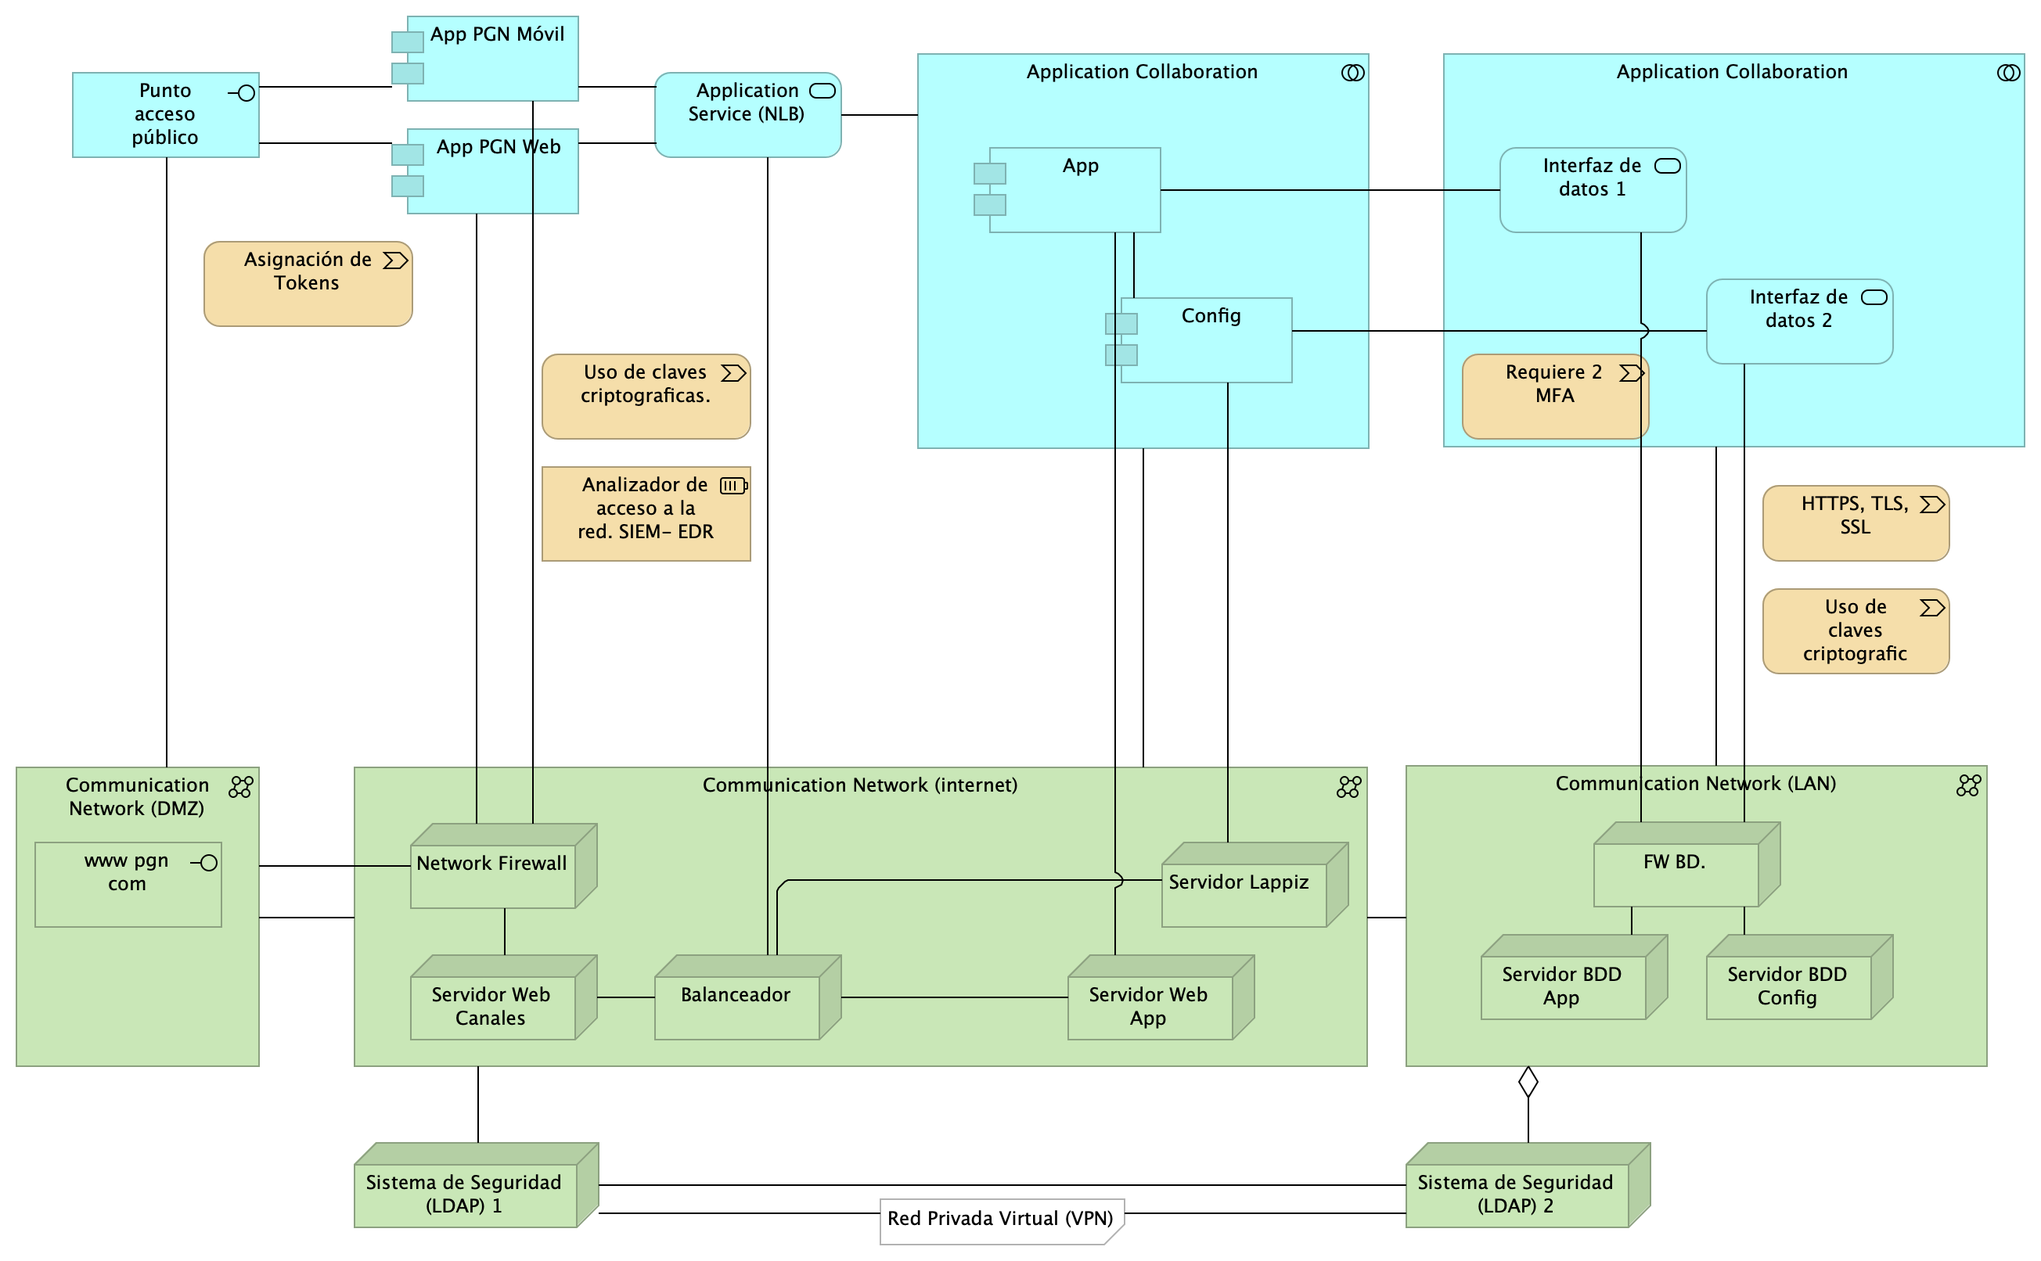
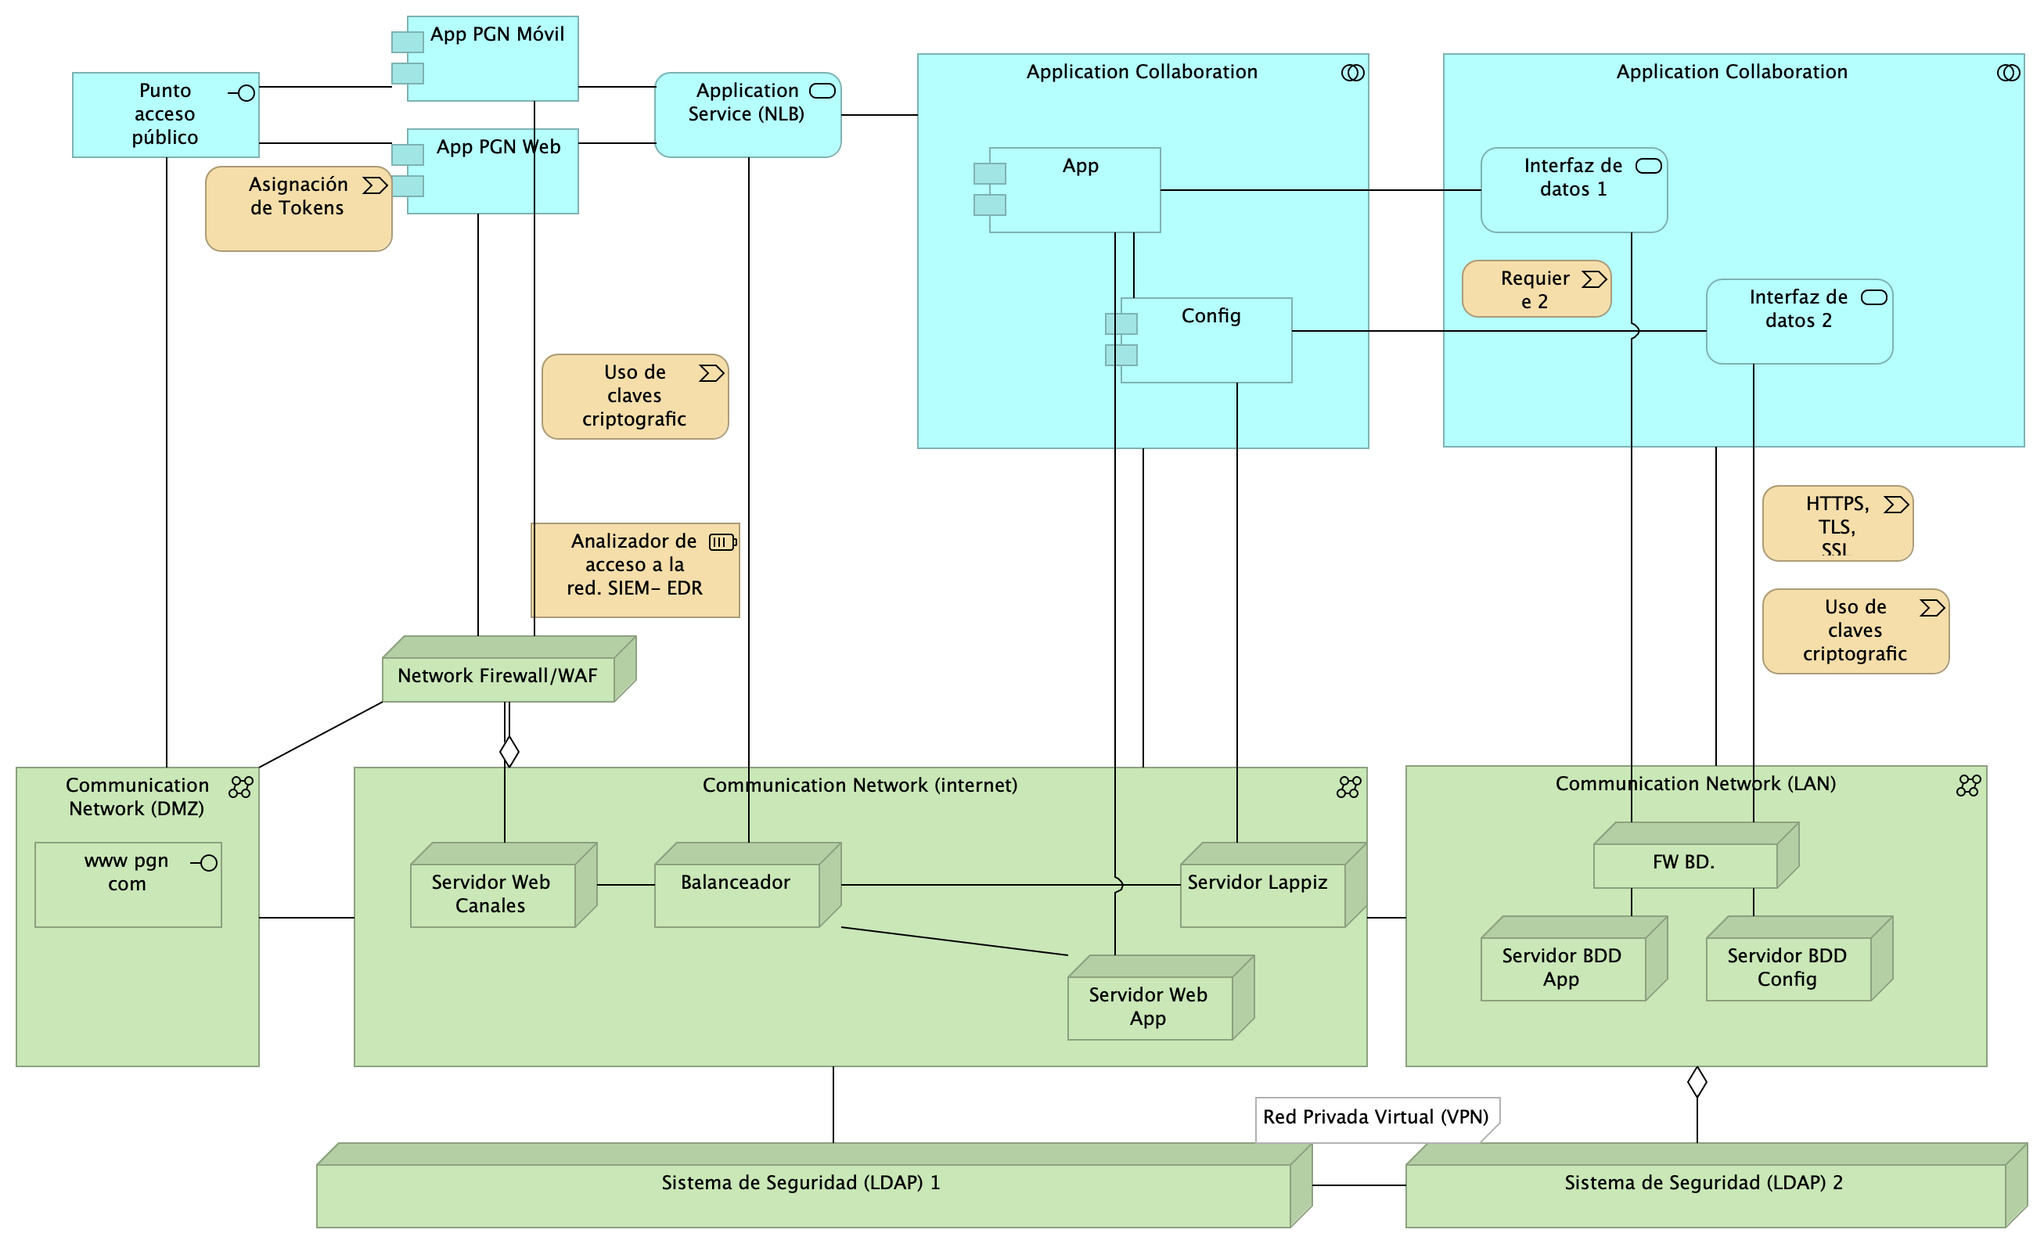
arqdoc2

diff --git a/content/03n.infra.md b/content/03n.infra.md
@@ -1,0 +1,149 @@
+# Documento de Arquitectura Infraestructura SUI PGN
+* [Descripción de Infraestructura Migración SUI PGN](#descripción-de-infraestructura-migración-sui-pgn)
+	* [Lineabase.1a.SIU componentes. infraestrcutura](#lineabase.1a.siu-componentes.-infraestrcutura)
+	* [Lineabase.0.SIU applicación. física](#lineabase.0.siu-applicación.-física)
+	* [Seguridad. Lineabase.0.SIU applicación](#seguridad.-lineabase.0.siu-applicación)
+
+<div style="page-break-before: always;"></div>
+\newpage
+
+# Descripción de Infraestructura Migración SUI PGN
+## Lineabase.1a.SIU componentes. infraestrcutura
+![Diagram: Lineabase.1a.SIU componentes. infraestrcutura](images/Lineabase.1a.SIUcomponentes.infraestrcutura.png){#fig:Lineabase.1a.SIUcomponentes.infraestrcutura width=}
+
+Dependencias de infraestructura entre los servicios que integran el modelo de aplicación de SUI, Migración. 
+
+* Servidor de Canales (App PGN web y móvil)
+* Servidor Web App (App SUI)
+* Servidor Lappiz (Config SUI)
+* Servidor BDD App (Transaccional)
+* Servidor BDD Config (Configuración)
+
+
+
+### Catálogo de Elementos
+| Name| Type| Description| Properties
+|:--------|:--------|:--------|:--------|
+|**Persistencia**|application-collaboration|||
+|**App**|application-component||*plataforma:* node Js<br>|
+|**App PGN Móvil**|application-component|||
+|**App PGN Web**|application-component||*plataforma:* angular 11<br>|
+|**Config**|application-component||*plataforma:* cs<br>|
+|**Controlador admin**|application-component||*plataforma:* cs<br>|
+|**Controlador frontal mvl**|application-component||*plataforma:* js<br>|
+|**Controlador frontal web**|application-component||*plataforma:* js<br>|
+|**Controlador funcional**|application-component||*plataforma:* js<br>|
+|**Modelo (neg)**|application-component||*plataforma:* cs<br>|
+|**Puerto datos 1**|application-component||*plataforma:* js<br>|
+|**Puerto datos 2**|application-component||*plataforma:* cs<br>|
+|**Seguridad**|application-component||*plataforma:* sql<br>|
+|**Transacciones**|application-component||*plataforma:* sql<br>|
+|**Utilitario**|application-component||*plataforma:* no-sql<br>|
+|**Vista móvil**|application-component||*plataforma:* js<br>|
+|**Vista web**|application-component||*plataforma:* html<br>|
+|**Interfaz de aplicación (runtime)**|application-interface||*plataforma:* angular 11<br>|
+|**API externas**|application-service|||
+|**Application Service (NLB)**|application-service||*plataforma:* angular 11<br>|
+|**Archivos Compartidos**|application-service|||
+|**CDN Contenidos**|application-service|||
+|**Doku (gest. doc.)**|application-service|||
+|**Identidades**|application-service|||
+|**Interfaz de datos 1**|application-service|||
+|**Interfaz de datos 2**|application-service|||
+|**Interfaz de datos 3**|application-service|||
+|**ccccc Proveedores contenidos**|application-service|||
+|**Mensaje: JSON**|data-object|||
+|**Infraestructura SUI**|grouping|Soporte de infraestructura a los componentes del SUI Migración. Servidores y ambientes de cómputo para la ejecución del software base de los componentes misionales del SUI de PGN.<br>||
+|**PGN SIU**|grouping|El objetivo principal de la arquitectura del SUI de la migración es la centralización de los conceptos misionales: concentrar los conceptos misionales en componentes aislados; dejar por fuera de estos componentes misionales todo lo distintos a la misionalidad de la PGN.<br>Los objetivos secundarios de esta arquitectura SUI de la migración son flexibilidad y extensibilidad. Dichos objetivos son independientes. Es decir, estos pueden ser maximizados sin conclifcto entre ellos.<br>||
+|**Servidor BDD App**|node|||
+|**Servidor BDD Config**|node|||
+|**Servidor Lappiz **|node|||
+|**Servidor Web App**|node|||
+|**Servidor Web Canales**|node|Nombre físico<br>IP LAN<br>IP Pública<br>||
+
+## Lineabase.0.SIU applicación. física
+![Diagram: Lineabase.0.SIU applicación. física](images/Lineabase.0.SIUapplicación.física.png){#fig:Lineabase.0.SIUapplicación.física width=}
+
+## Representación Arquitectónica
+Con una arquitectura orientada a servicios SUI recopila:
+
+1. Runtime: Es el servicio que interactúa con el usuario final (GUI) elaborado en Angular 11
+1. API Tx: Servicio api rest base node encargado de realizar las transacciones básicas CRUD
+1. API Config / Seguridad. Servicio Web API .Net Framework encargado de gestionar características con la autenticación y configuración
+
+
+
+
+### Catálogo de Elementos
+| Name| Type| Description| Properties
+|:--------|:--------|:--------|:--------|
+|**Application Collaboration**|application-collaboration|||
+|**Application Collaboration**|application-collaboration|||
+|**App**|application-component||*plataforma:* node Js<br>|
+|**App PGN Móvil**|application-component|||
+|**App PGN Web**|application-component||*plataforma:* angular 11<br>|
+|**Config**|application-component||*plataforma:* cs<br>|
+|**Punto acceso público**|application-interface|URL tipo C<br>HTTP||
+|**Application Service (NLB)**|application-service||*plataforma:* angular 11<br>|
+|**Interfaz de datos 1**|application-service|||
+|**Interfaz de datos 2**|application-service|||
+|**Communication Network (DMZ)**|communication-network|||
+|**Communication Network (LAN)**|communication-network|||
+|**Communication Network (internet)**|communication-network|||
+|**Balanceador**|node|||
+|**Servidor BDD App**|node|||
+|**Servidor BDD Config**|node|||
+|**Servidor Lappiz **|node|||
+|**Servidor Web App**|node|||
+|**Servidor Web Canales**|node|Nombre físico<br>IP LAN<br>IP Pública<br>||
+|**www pgn com**|technology-interface|||
+
+## Seguridad. Lineabase.0.SIU applicación
+![Diagram: Seguridad. Lineabase.0.SIU applicación](images/Seguridad.Lineabase.0.SIUapplicación.png){#fig:Seguridad.Lineabase.0.SIUapplicación width=}
+
+# Representación Arquitectónica
+Con una arquitectura orientada a servicios SUI recopila:
+
+1. Runtime: Es el servicio que interactúa con el usuario final (GUI) elaborado en Angular 11
+1. API Tx: Servicio api rest base node encargado de realizar las transacciones básicas CRUD
+1. API Config / Seguridad. Servicio Web API .Net Framework encargado de gestionar características con la autenticación y configuración
+
+
+
+
+### Catálogo de Elementos
+| Name| Type| Description| Properties
+|:--------|:--------|:--------|:--------|
+|**Application Collaboration**|application-collaboration|||
+|**Application Collaboration**|application-collaboration|||
+|**App**|application-component||*plataforma:* node Js<br>|
+|**App PGN Móvil**|application-component|||
+|**App PGN Web**|application-component||*plataforma:* angular 11<br>|
+|**Config**|application-component||*plataforma:* cs<br>|
+|**Punto acceso público**|application-interface|URL tipo C<br>HTTP||
+|**Application Service (NLB)**|application-service||*plataforma:* angular 11<br>|
+|**Interfaz de datos 1**|application-service|||
+|**Interfaz de datos 2**|application-service|||
+|**Communication Network (DMZ)**|communication-network|||
+|**Communication Network (LAN)**|communication-network|||
+|**Communication Network (internet)**|communication-network|||
+|**Balanceador**|node|||
+|**FW BD.**|node|||
+|**Network Firewall/WAF**|node|||
+|**Servidor BDD App**|node|||
+|**Servidor BDD Config**|node|||
+|**Servidor Lappiz **|node|||
+|**Servidor Web App**|node|||
+|**Servidor Web Canales**|node|Nombre físico<br>IP LAN<br>IP Pública<br>||
+|**Sistema de Seguridad (LDAP) 1**|node|Sistema de Seguridad (LDAP) 1. Control de acceso internet<br>||
+|**Sistema de Seguridad (LDAP) 2**|node|Sistema de Seguridad (LDAP) 2. Control de acceso a datos||
+|**Analizador de acceso a la red. SIEM- EDR**|resource|||
+|**www pgn com**|technology-interface|||
+|**Asignación de Tokens**|value-stream|||
+|**HTTPS, TLS, SSL**|value-stream|||
+|**Requiere 2 MFA**|value-stream|||
+|**Uso de claves criptograficas.**|value-stream|||
+|**Uso de claves criptograficas. (copy)**|value-stream|||
+
+
+``Generated on: Wed Sep 13 2023 12:04:04 GMT-0500 (COT)``

diff --git a/content/04n.1a.datos.md b/content/04n.1a.datos.md
@@ -1,0 +1,122 @@
+# Documento de Arquitectura Datos SUI
+* [Descripción de Entidades de Datos Migración SUI PGN](#descripción-de-entidades-de-datos-migración-sui-pgn)
+	* [Migracion.2. datos](#migracion.2.-datos)
+	* [Migracion.2a. datos Hominis](#migracion.2a.-datos-hominis)
+	* [Migracion.2c. datos Control interno](#migracion.2c.-datos-control-interno)
+	* [Migracion.2d. datos SIRI](#migracion.2d.-datos-siri)
+	* [Migracion.2b. datos SIM](#migracion.2b.-datos-sim)
+
+<div style="page-break-before: always;"></div>
+\newpage
+
+# Descripción de Entidades de Datos Migración SUI PGN
+## Migracion.2. datos
+![Diagram: Migracion.2. datos](images/Migracion.2.datos.png){#fig:Migracion.2.datos width=5.32in}
+
+Modelo de acceso y procesamiento a datos de negocio del SUI. Presentamos la organización de los ítems de datos de negocio necesarios para que los módulos del SUI puedan recolectar, procesar, integrar y almacenarlos de forma organizada y escalable.
+
+Mediante esta organización, los datos de negocio son transportados desde sus respectivas fuentes mediante interfaces (por principio de extensión y mantenibilidad). Los datos externos, entendidos como los de otros proveedores, son obtenidos mediante un intermediario: el bus de datos del SUI.
+
+Consideramos tres tipos datos: datos transaccionales, históricos y externos, y presentamos una manera distinta de tratarlos y transportarlos.
+
+
+### Catálogo de Elementos
+| Name| Type| Description| Properties
+|:--------|:--------|:--------|:--------|
+|**cc:PGN SUI (misional)**|application-collaboration|||
+|**APP1.Relatoría**|application-component|Módulo del SUI. Relatoría pública. Publicación de información de referencia para funcionarios y personas naturales, cientes de la PGN.<br> ||
+|**APP2.SIRI**|application-component|||
+|**APP3.Control interno**|application-component|||
+|**APP4.Hominis**|application-component|Módulo del SUI. Gestión de capital humano, funcionarios y cargos de representación y libre remoción de la PGN.<br>||
+|**APP5.SIM**|application-component|||
+|**APP6.Estratego**|application-component|||
+|**Interfaz de Acceso Proveedores**|application-interface|Interfaz de acceso a los tipos de datos externos al SUI.<br>||
+|**Interfaz de Almacenaniento**|application-interface|Interfaz de acceso a los repositorio, base de datos relacionales y no jerárquicas. Tipos de datos transaccionales, internos, del SUI.<br>||
+|**Procesamiento batch PGN**|application-process|Los procesos de lotes, que requieren volumenes de datos altos, deben hacer parte de la arquitectura de datos del SUI.<br>||
+|**Bus de datos**|application-service|El patrón de bus de datos tiene el rol de unir y referir a los datos externos al SUI de tal manera que hace transparente la localización y el formato de este tipo de datos.<br>||
+|**Datos externos**|data-object|||
+|**Datos históricos**|data-object|||
+|**Datos transaccionales**|data-object|||
+
+## Migracion.2a. datos Hominis
+![Diagram: Migracion.2a. datos Hominis](images/Migracion.2a.datosHominis.png){#fig:Migracion.2a.datosHominis width=5.32in}
+
+Identificación de entidades de datos de negocio relacionadas al módulo de gestión de capital del SUI, Hominis.
+
+Estas entidades de datos de negocio son los que llamamos los tipos de datos internos del SUI y deben ser consideradas para la creación de las API de manejo del ciclo de vida de los datos de este módulo.
+
+
+### Catálogo de Elementos
+| Name| Type| Description| Properties
+|:--------|:--------|:--------|:--------|
+|**APP4.Hominis**|application-component|Módulo del SUI. Gestión de capital humano, funcionarios y cargos de representación y libre remoción de la PGN.<br>||
+|**DAT.Cargo**|business-object|||
+|**DAT.Código Actuación**|business-object|||
+|**DAT.Código Jurisdicción**|business-object|||
+|**DAT.Código Regional**|business-object|||
+|**DAT.Código SNIES**|business-object|||
+|**DAT.Código dependencia superior**|business-object|||
+|**DAT.Código regional**|business-object|||
+|**DAT.Decreto de la creación**|business-object|||
+|**DAT.Diciplina Area**|business-object|||
+|**DAT.Encargo del cargo**|business-object|||
+|**DAT.Ley vigente**|business-object|||
+|**DAT.Materia**|business-object|||
+|**DAT.Nivel**|business-object|||
+|**DAT.Nombre Actuación**|business-object|||
+|**DAT.Nombre Jurisdicción**|business-object|||
+|**DAT.Nombre Regional**|business-object|||
+|**DAT.Nombre dependencia superior**|business-object|||
+|**DAT.Tipo de inscripcion**|business-object|||
+|**DAT.Vinculación**|business-object|||
+
+## Migracion.2c. datos Control interno
+![Diagram: Migracion.2c. datos Control interno](images/Migracion.2c.datosControlinterno.png){#fig:Migracion.2c.datosControlinterno width=}
+
+Identificación de entidades de datos de negocio relacionadas al módulo de seguimiento del desempeño de la PGN del SUI, Control Interno.
+
+Estas entidades de datos de negocio son los que llamamos los tipos de datos internos del SUI y deben ser consideradas para la creación de las API de manejo del ciclo de vida de los datos de este módulo. 
+
+
+### Catálogo de Elementos
+| Name| Type| Description| Properties
+|:--------|:--------|:--------|:--------|
+|**APP3.Control interno**|application-component|||
+|**DAT.Dependencia**|business-object|||
+|**DAT.Funcionario**|business-object|||
+|**DAT.Proceso**|business-object|||
+|**DAT.Tipo de proceso**|business-object|||
+
+## Migracion.2d. datos SIRI
+![Diagram: Migracion.2d. datos SIRI](images/Migracion.2d.datosSIRI.png){#fig:Migracion.2d.datosSIRI width=}
+
+Identificación de entidades de datos de negocio relacionadas al módulo del SUI, SIRI.
+
+Estas entidades de datos de negocio son los que llamamos los tipos de datos internos del SUI y deben ser consideradas para la creación de las API de manejo del ciclo de vida de los datos de este módulo. 
+
+
+### Catálogo de Elementos
+| Name| Type| Description| Properties
+|:--------|:--------|:--------|:--------|
+|**APP2.SIRI**|application-component|||
+|**DAT.Entidad**|business-object|||
+
+## Migracion.2b. datos SIM
+![Diagram: Migracion.2b. datos SIM](images/Migracion.2b.datosSIM.png){#fig:Migracion.2b.datosSIM width=}
+
+Identificación de entidades de datos de negocio relacionadas al módulo de SUI, SIM.
+
+Estas entidades de datos de negocio son los que llamamos los tipos de datos internos del SUI y deben ser consideradas para la creación de las API de manejo del ciclo de vida de los datos de este módulo. 
+
+
+### Catálogo de Elementos
+| Name| Type| Description| Properties
+|:--------|:--------|:--------|:--------|
+|**APP5.SIM**|application-component|||
+|**DAT.Corregimiento**|business-object|||
+|**DAT.Departamento**|business-object|||
+|**DAT.Municipio**|business-object|||
+|**DAT.País**|business-object|||
+
+
+``Generated on: Wed Sep 13 2023 12:03:48 GMT-0500 (COT)``

diff --git a/content/Migracion.2a. datos Hominis.md b/content/Migracion.2a. datos Hominis.md
@@ -1,10 +1,10 @@
 
 ## Migracion.2a. datos Hominis
-![Diagram: Migracion.2a. datos Hominis](images/Migracion.2a.datosHominis.png){#fig:Migracion.2a.datosHominis width=}
+![Diagram: Migracion.2a. datos Hominis](images/Migracion.2a.datosHominis.png){#fig:Migracion.2a.datosHominis width=5.32in}
 
 Identificación de entidades de datos de negocio relacionadas al módulo de gestión de capital del SUI, Hominis.
 
-Estas entidades de datos de negocio son los que llamamos los tipos de datos internos del SUI. 
+Estas entidades de datos de negocio son los que llamamos los tipos de datos internos del SUI y deben ser consideradas para la creación de las API de manejo del ciclo de vida de los datos de este módulo.
 
 
 ### Catálogo de Elementos

diff --git a/content/Migracion.2c. datos Control interno.md b/content/Migracion.2c. datos Control interno.md
@@ -4,7 +4,7 @@
 
 Identificación de entidades de datos de negocio relacionadas al módulo de seguimiento del desempeño de la PGN del SUI, Control Interno.
 
-Estas entidades de datos de negocio son los que llamamos los tipos de datos internos del SUI. 
+Estas entidades de datos de negocio son los que llamamos los tipos de datos internos del SUI y deben ser consideradas para la creación de las API de manejo del ciclo de vida de los datos de este módulo. 
 
 
 ### Catálogo de Elementos

diff --git a/content/Migracion.2. datos.md b/content/Migracion.2. datos.md
@@ -1,6 +1,6 @@
 
 ## Migracion.2. datos
-![Diagram: Migracion.2. datos](images/Migracion.2.datos.png){#fig:Migracion.2.datos width=}
+![Diagram: Migracion.2. datos](images/Migracion.2.datos.png){#fig:Migracion.2.datos width=5.32in}
 
 Modelo de acceso y procesamiento a datos de negocio del SUI. Presentamos la organización de los ítems de datos de negocio necesarios para que los módulos del SUI puedan recolectar, procesar, integrar y almacenarlos de forma organizada y escalable.
 

diff --git a/content/Migracion.2d. datos SIRI.md b/content/Migracion.2d. datos SIRI.md
@@ -4,7 +4,7 @@
 
 Identificación de entidades de datos de negocio relacionadas al módulo del SUI, SIRI.
 
-Estas entidades de datos de negocio son los que llamamos los tipos de datos internos del SUI. 
+Estas entidades de datos de negocio son los que llamamos los tipos de datos internos del SUI y deben ser consideradas para la creación de las API de manejo del ciclo de vida de los datos de este módulo. 
 
 
 ### Catálogo de Elementos

diff --git a/content/Migracion.2b. datos SIM.md b/content/Migracion.2b. datos SIM.md
@@ -4,7 +4,7 @@
 
 Identificación de entidades de datos de negocio relacionadas al módulo de SUI, SIM.
 
-Estas entidades de datos de negocio son los que llamamos los tipos de datos internos del SUI. 
+Estas entidades de datos de negocio son los que llamamos los tipos de datos internos del SUI y deben ser consideradas para la creación de las API de manejo del ciclo de vida de los datos de este módulo. 
 
 
 ### Catálogo de Elementos

diff --git a/content/Seguridad. Lineabase.0.SIU applicación.md b/content/Seguridad. Lineabase.0.SIU applicación.md
@@ -30,7 +30,7 @@ Con una arquitectura orientada a servicios SUI recopila:
 |**Communication Network (internet)**|communication-network|||
 |**Balanceador**|node|||
 |**FW BD.**|node|||
-|**Network Firewall**|node|||
+|**Network Firewall/WAF**|node|||
 |**Servidor BDD App**|node|||
 |**Servidor BDD Config**|node|||
 |**Servidor Lappiz **|node|||

diff --git a/content/02n.a1.contenido.md b/content/02n.a1.contenido.md
@@ -512,4 +512,4 @@ El portal es el conjunto de los elementos físicos y lógicos necesarios para la
 |**Application Interface**|application-interface|||
 
 
-``Generated on: Wed Sep 13 2023 11:50:35 GMT-0500 (COT)``
+``Generated on: Wed Sep 13 2023 12:04:18 GMT-0500 (COT)``
